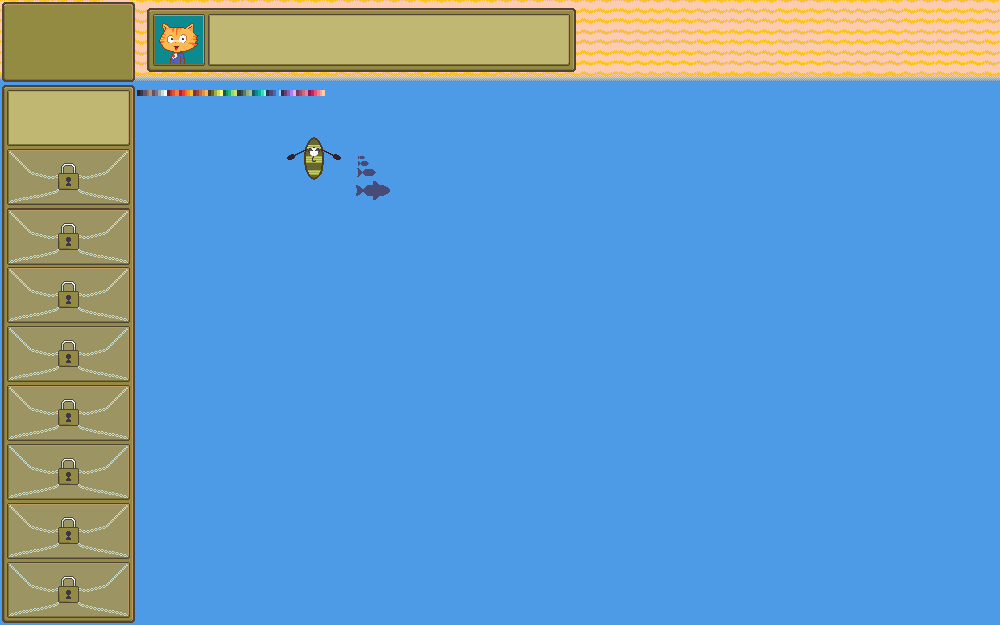
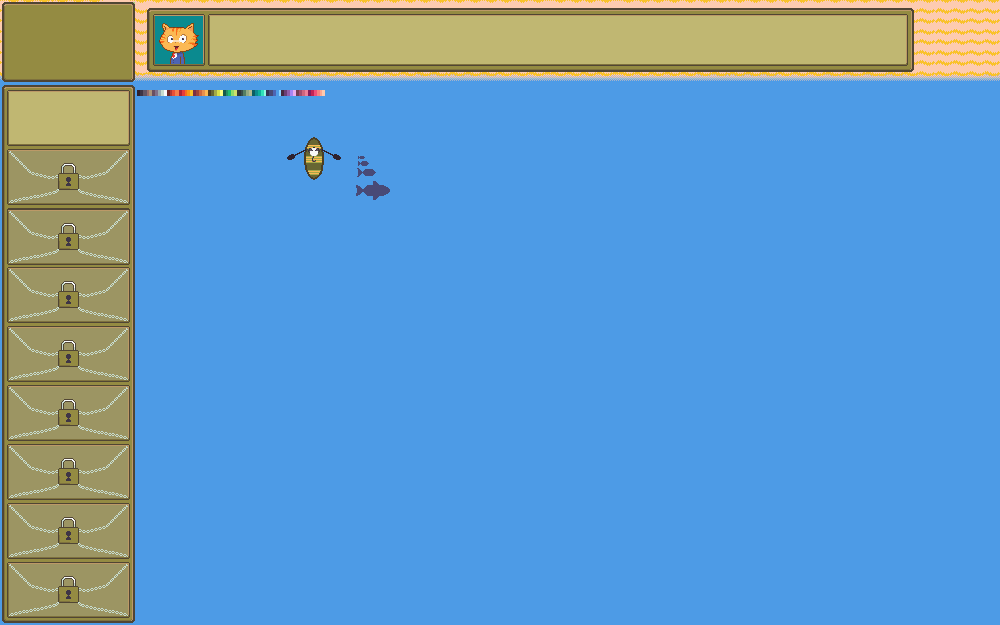
:sparkles:feat:dialogo terminado

Changed region(s): [[0.558, 0.0, 0.93, 0.1216]]

diff --git a/pescaria.py b/pescaria.py
@@ -13,25 +13,21 @@ clock = pygame.time.Clock()
 class Player(pygame.sprite.Sprite):
     def __init__(self):
         super().__init__()
-        canoa1 = pygame.image.load('graficos/canoa/canoa1.png').convert_alpha()
-        canoa2 = pygame.image.load('graficos/canoa/canoa2.png').convert_alpha()
-        canoa3 = pygame.image.load('graficos/canoa/canoa3.png').convert_alpha()
-        canoa4 = pygame.image.load('graficos/canoa/canoa4.png').convert_alpha()
-        canoa5 = pygame.image.load('graficos/canoa/canoa5.png').convert_alpha()
-        canoa6 = pygame.image.load('graficos/canoa/canoa6.png').convert_alpha()
-        canoa7 = pygame.image.load('graficos/canoa/canoa7.png').convert_alpha()
-        canoa8 = pygame.image.load('graficos/canoa/canoa8.png').convert_alpha()
+
+        frames = [ pygame.image.load(f"graficos/canoa/canoa{i}.png").convert_alpha() for i in range(1, 9) ]
+
         self.playerIndex = 0
         # A lista tem repetidos para certos frames terem velocidades diferentes
         self.playerAnimacao = [
-            canoa1, canoa1, 
-            canoa2, 
-            canoa3, canoa3, canoa3, canoa3, 
-            canoa4, 
-            canoa5, canoa5, 
-            canoa6, 
-            canoa7, canoa7, canoa7, canoa7, 
-            canoa8]
+            frames[0], frames[0], 
+            frames[1], 
+            frames[2], frames[2], frames[2], frames[2], 
+            frames[3], 
+            frames[4], frames[4], 
+            frames[5], 
+            frames[6], frames[6], frames[6], frames[6], 
+            frames[7]]
+        
         self.imageOriginal = self.playerAnimacao[self.playerIndex]        
         self.image = self.imageOriginal
         self.anguloHistorico = [0,0,0,0,0,0,0,0,0,0]
@@ -56,21 +52,22 @@ class Player(pygame.sprite.Sprite):
         self.rect = self.image.get_rect(center = self.rect.center)
 
     def mover(self):
-        global moverx
-        global xPlayer
-        global movery
-        global yPlayer
-        global movendo
-        global rotacionar
-        xPlayer = self.rect.centerx
-        yPlayer = self.rect.centery
-        movendo = True
-        rotacionar = False
-        self.rect.centerx = self.rect.centerx - moverx
-        self.rect.centery = self.rect.centery - movery
-        if self.rect.centerx == xPlayer and self.rect.centery == yPlayer:
-            movendo = False
-            rotacionar = True
+        if travar is False:
+            global moverx
+            global xPlayer
+            global movery
+            global yPlayer
+            global movendo
+            global rotacionar
+            xPlayer = self.rect.centerx
+            yPlayer = self.rect.centery
+            movendo = True
+            rotacionar = False
+            self.rect.centerx = self.rect.centerx - moverx
+            self.rect.centery = self.rect.centery - movery
+            if self.rect.centerx == xPlayer and self.rect.centery == yPlayer:
+                movendo = False
+                rotacionar = True
 
     def gerar_particulas(self, particulas):
         for _ in range(2):
@@ -91,15 +88,16 @@ movery = 0
 movendo = False
 velocidade = 3
 player.add(Player())
-rotacionar = True
+rotacionar = False
+travar = True
 
 # Particulas
 class Particula(pygame.sprite.Sprite):
-    def __init__(self, posicaoMaxima):
+    def __init__(self, posicao):
         super().__init__()
         self.image = pygame.Surface((3, 2), pygame.SRCALPHA) # SRCALPHA significa que os pixels terão um canal alpha(transparência)
         pygame.draw.circle(self.image, (143, 211, 255), (2, 2), 3) # cor, centro, raio
-        self.rect = self.image.get_rect(center = posicaoMaxima)
+        self.rect = self.image.get_rect(center = posicao)
         self.moverX = random.uniform(-1, 3) # uniform é quando aceita float
         self.moverY = random.uniform(1, 3)
         self.timer = 30
@@ -115,20 +113,57 @@ class Particula(pygame.sprite.Sprite):
 
 particulas = pygame.sprite.Group()
 
-# Background:
-background = pygame.image.load('graficos/background.png').convert()
+# Diálogo:
+class Dialogo:
+    def __init__(self):
+        global transicao
+        global fala
+        self.texto = []
+        self.posicaoMaxima = 0
+        self.posicao = 0
+        self.separacao = 0
+        self.avancar = False
 
-# Gatosário:
-gatosario = pygame.image.load('graficos/gatosario.png').convert()
-fonte = pygame.font.Font('graficos/pixel-operator.ttf', 18)
-fonte2 = pygame.font.Font('graficos/pixeltype.ttf', 18)
-fonte3 = pygame.font.Font('graficos/monobit.ttf', 18)
-fonte4 = pygame.font.Font('graficos/Jersey10-Regular.ttf', 18)
+    def ateOndeEscrever(self, dialogo, proxFala):
+        global transicao
+        global fala
 
+        if transicao is True:
+            self.posicaoMaxima = 0
+            self.posicao = 0
+            self.separacao = 0
+            self.texto = []
+            transicao = False
+
+        
+        if self.posicaoMaxima <= len(dialogo):
+            self.posicaoMaxima += 1
+        
+        if self.posicao <= self.posicaoMaxima:
+            texto_surface = fonte.render(dialogo[self.posicao], False, (250, 253, 255))
+            self.texto.append(texto_surface)
+
+        self.posicao += 1
+        if self.posicao == len(dialogo):
+            fala = proxFala + 0.1
+
+    def escrever(self):
+        for i in range(self.posicao):
+            if i < 75:
+                screen.blit(self.texto[i], ((220 + (self.separacao)), 15))
+            else:
+                screen.blit(self.texto[i], ((220 + (self.separacao) - 675), 30))
+            self.separacao += 9
+        self.separacao = 0
+    
+fonte = pygame.font.Font('graficos/DeterminationMono.ttf', 18)
+transicao = False
+fala = 1
+dialogoSistema = Dialogo()
 dialogo1 = 'Parabénnnsss!!!Você está a um passo de ser o novo CEO da Phising good & cheap Enterprise©!'
-dialogo2 = 'Começaremos nossas operações em Gatuma,uma pequena cidade pesqueira entre a Miasília e Peixótina.Uma oportunidade perfeita para subir na sua carreira!'
+dialogo2 = 'Começaremos nossas operações em Gatuma,uma pequena cidade pesqueira entre aMiasília e Peixótina.Uma oportunidade perfeita para subir na sua carreira!'
 dialogo3 = 'Hoje é 9 de Janeiro,ou seja,ainda estamos no período de defeso!!'
-dialogo4 = 'Essa é época onde os pescadores locais tiram férias, e os preços dos peixes aumenta!'
+dialogo4 = 'Essa é época onde os pescadores locais tiram férias, e os preços dos peixesaumenta!'
 dialogo5 = 'Nossa meta é arrecadar 200 mil peixes até o fim do período.'
 dialogo6 = 'Controle as operações e mostre teu espirito felino!'
 dialogo7 = 'Ah, só tem um detalhezinho...'
@@ -136,31 +171,29 @@ dialogo8 = 'Talvez estejamos sem verba,por alguns "probleminhas" legais.'
 dialogo9 = 'Mas não se preocupe!Como sou grande,magnífico,inteligente,proativo e resiliente,chamei meu sobrinho pra cuidar disso!'
 dialogo10 = 'Tem uma canoa ali,você pode usa-la para pagar as operações!'
 dialogo11 = 'Boa-sorte-você-consegue-e-tudo-mais-tchau!'
-dialogo = 'Null'
 
-texto = []
-fala = 1
-posicaoMaxima = 0
-posicao = 0
-separacao = 0
-avancar = False
+dialogos = {
+    1: (dialogo1, 2),
+    2: (dialogo2, 3),
+    3: (dialogo3, 4),
+    4: (dialogo4, 5),
+    5: (dialogo5, 6),
+    6: (dialogo6, 7),
+    7: (dialogo7, 8),
+    8: (dialogo8, 9),
+    9: (dialogo9, 10),
+    10: (dialogo10, 11),
+    11: (dialogo11, 0),
+    0: ('NULL', 12)
+}
 
-def escrever():
-        global separacao
-        for i in range(posicao):
-            if dialogo[i] in ['c', 'n', 's', 'd']:
-                separacao -= 1
-                screen.blit(texto[i], ((220 + (separacao)), 15))
-            elif dialogo[i - 1] in ['j', 'l']:
-                separacao -= 4
-                screen.blit(texto[i], ((220 + (separacao)), 15))
-            elif dialogo[i - 1] in ['m']:
-                separacao += 3
-                screen.blit(texto[i], ((220 + (separacao)), 15))
-            else:
-                screen.blit(texto[i], ((220 + (separacao)), 15))
-            separacao += 9
-        separacao = 0
+# Background:
+background = pygame.image.load('graficos/background.png').convert()
+
+# Gatosário:
+gatosario = pygame.image.load('graficos/gatosario.png').convert()
+triangulo = pygame.image.load('graficos/triangulo.png').convert()
+trianguloX = 900
 
 # Eventos pygame:
 def processarEventos():
@@ -168,27 +201,31 @@ def processarEventos():
     global rotacionar
     global moverx, movery
     global fala
+    global transicao
     for event in pygame.event.get():
         if event.type == pygame.QUIT:
             pygame.quit()
             exit()
 
         if event.type == pygame.MOUSEBUTTONDOWN:
-            if fala % 1 != 0:
-                fala -= 0.1
-            print(fala)
+            
+            if round((fala % 1), 2) == 0.1:
+                fala = int(fala)
+            transicao = True
+
             click_x, click_y = pygame.mouse.get_pos()
             if cursor_x >= 134 and cursor_y >= 80:
                 rotacionar = True
                 if event.button == 1:
-                    if xPlayer < click_x:
-                        moverx = -velocidade
-                    if xPlayer > click_x:
-                        moverx = velocidade
-                    if yPlayer < click_y:
-                        movery = -velocidade
-                    if yPlayer > click_y:
-                        movery = velocidade
+                    if travar is False:
+                        if xPlayer < click_x:
+                            moverx = -velocidade
+                        if xPlayer > click_x:
+                            moverx = velocidade
+                        if yPlayer < click_y:
+                            movery = -velocidade
+                        if yPlayer > click_y:
+                            movery = velocidade
                 elif event.button == 3:
                     print("Botão direito!")
 
@@ -210,52 +247,34 @@ while True:
     # Updates:
     player.update()
     particulas.update()
-
-
-    screen.blit(background, (0,0))
-    screen.blit(gatosario, (153, 8))
-
-    if fala == 1:
-        dialogo = dialogo1
-
-        if posicaoMaxima <= len(dialogo):
-            posicaoMaxima += 1
-        
-        if posicao <= posicaoMaxima:
-            texto_surface = fonte4.render(dialogo[posicao], False, (250, 253, 255))
-            texto.append(texto_surface)
-            print(dialogo[posicao])
-        posicao += 1
-        if posicao == len(dialogo):
-            fala = 2.1
-            transicao = True
-
-    if fala == 2:
-        if transicao is True:
-            posicaoMaxima = 0
-            posicao = 0
-            separacao = 0
-            texto = []
-            transicao = False
-
-        dialogo = dialogo2
-
-        if posicaoMaxima <= len(dialogo):
-            posicaoMaxima += 1
-        
-        if posicao <= posicaoMaxima:
-            texto_surface = fonte4.render(dialogo[posicao], False, (250, 253, 255))
-            texto.append(texto_surface)
-            print(dialogo[posicao])
-        posicao += 1
-        if posicao == len(dialogo):
-            fala = 3
     
-    escrever()
+    if fala in dialogos:
+        dialogo, proxFala = dialogos[fala]
+        if proxFala != 12:
+            dialogoSistema.ateOndeEscrever(dialogo, proxFala)
+        elif proxFala == 12:
+            travar = False
 
-
+    # Blits e draws: 
+    screen.blit(background, (0,0))
+    
+    if proxFala != 12:
+        screen.blit(gatosario, (153, 8))
+        if trianguloX == 900:
+            vem = True
+        if trianguloX == 890:
+            vem = False
+        
+        if vem:
+            trianguloX -= 0.25
+        else:
+            trianguloX += 0.25
+        
+        screen.blit(triangulo, (trianguloX, 45))
+        dialogoSistema.escrever()
 
     particulas.draw(screen)
     player.draw(screen)
+
     pygame.display.update()
     clock.tick(60)